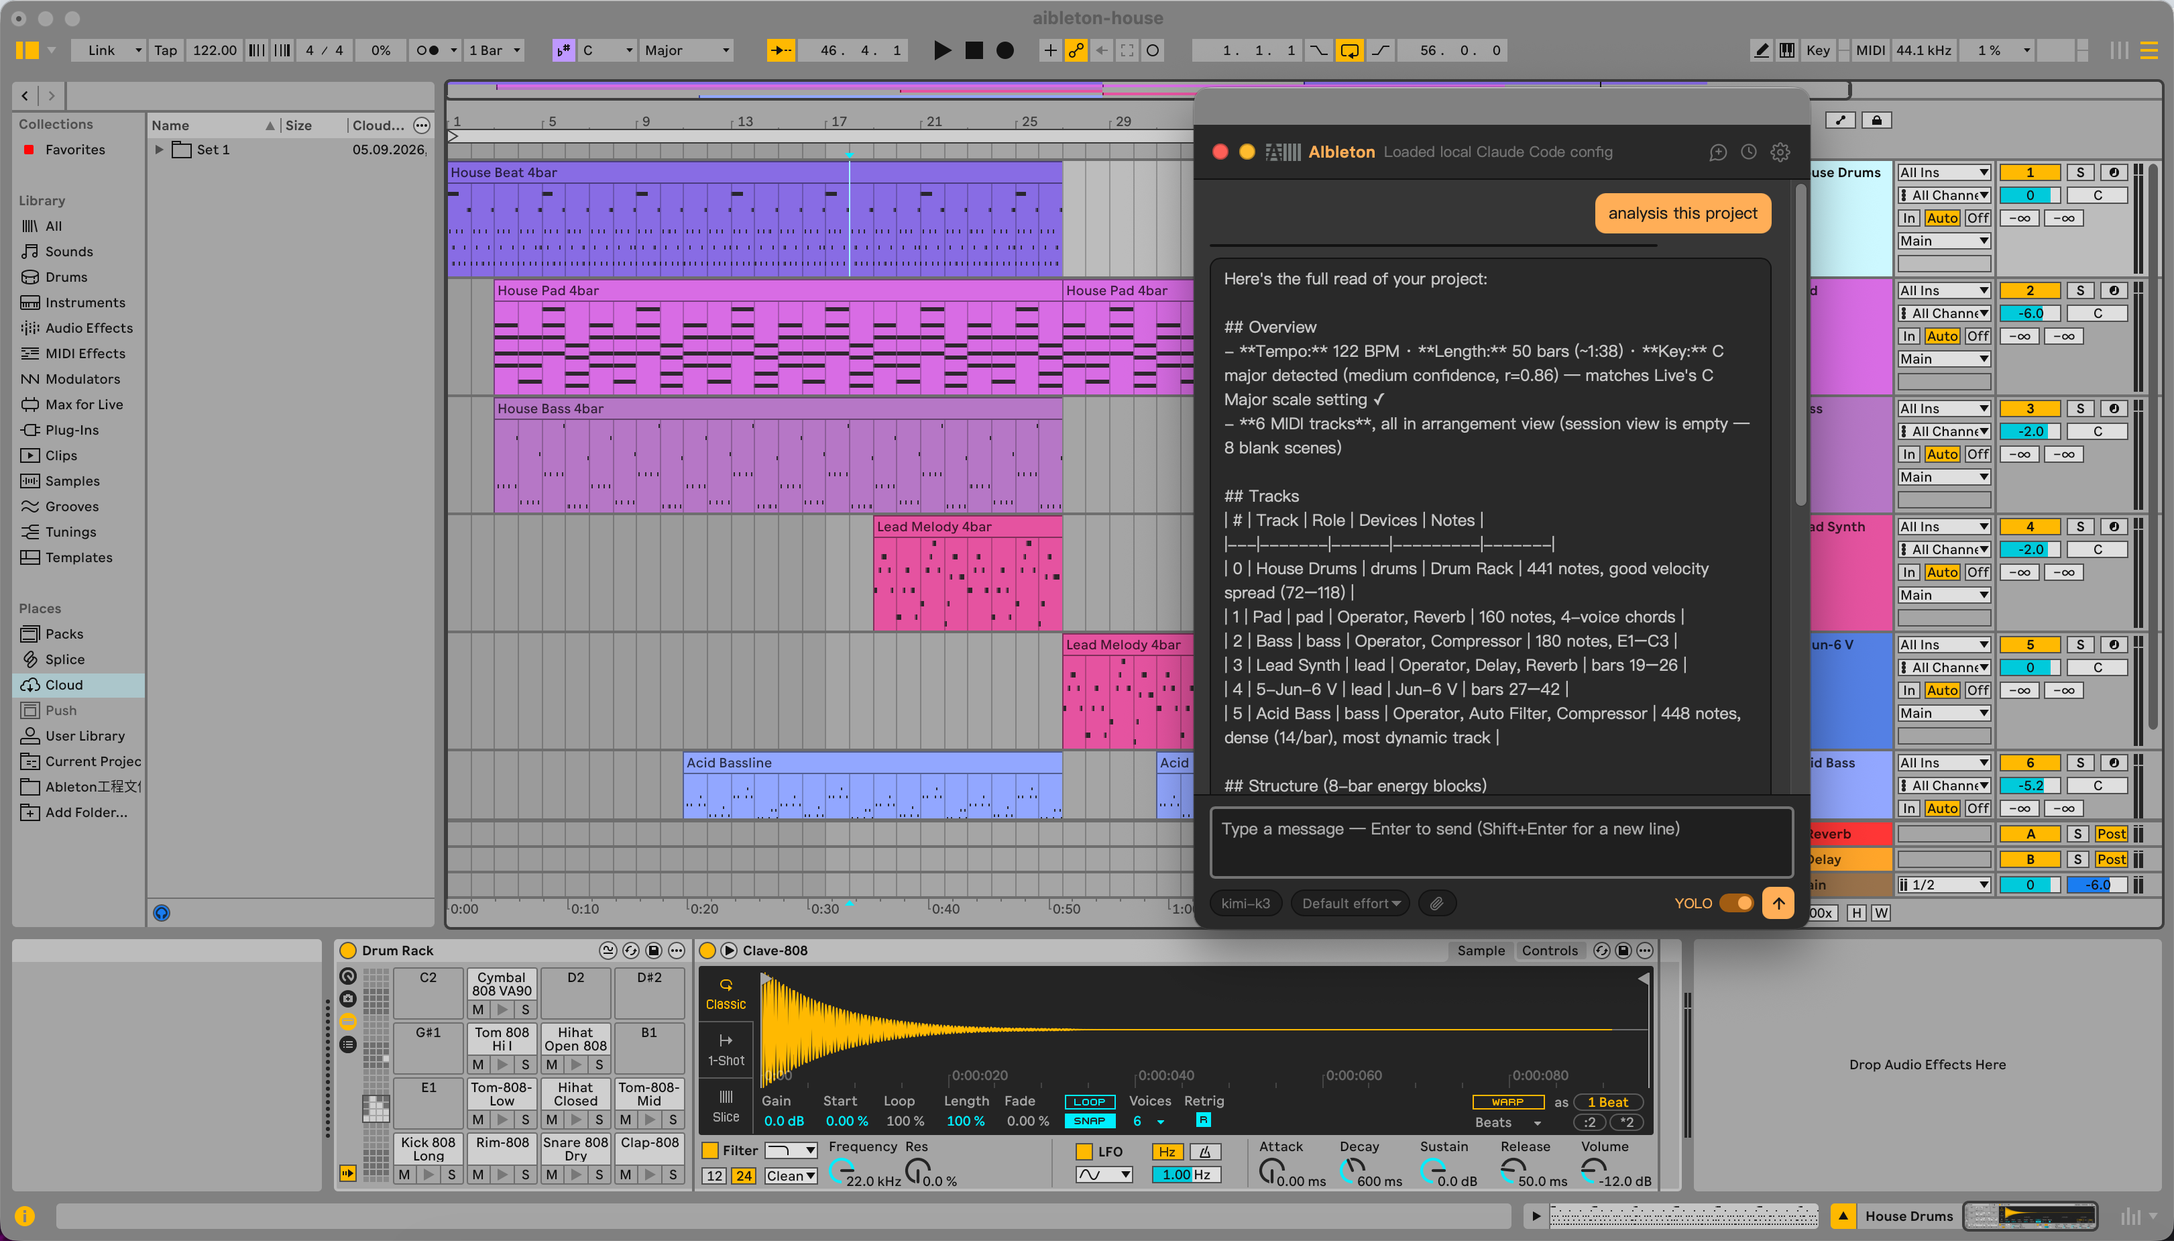
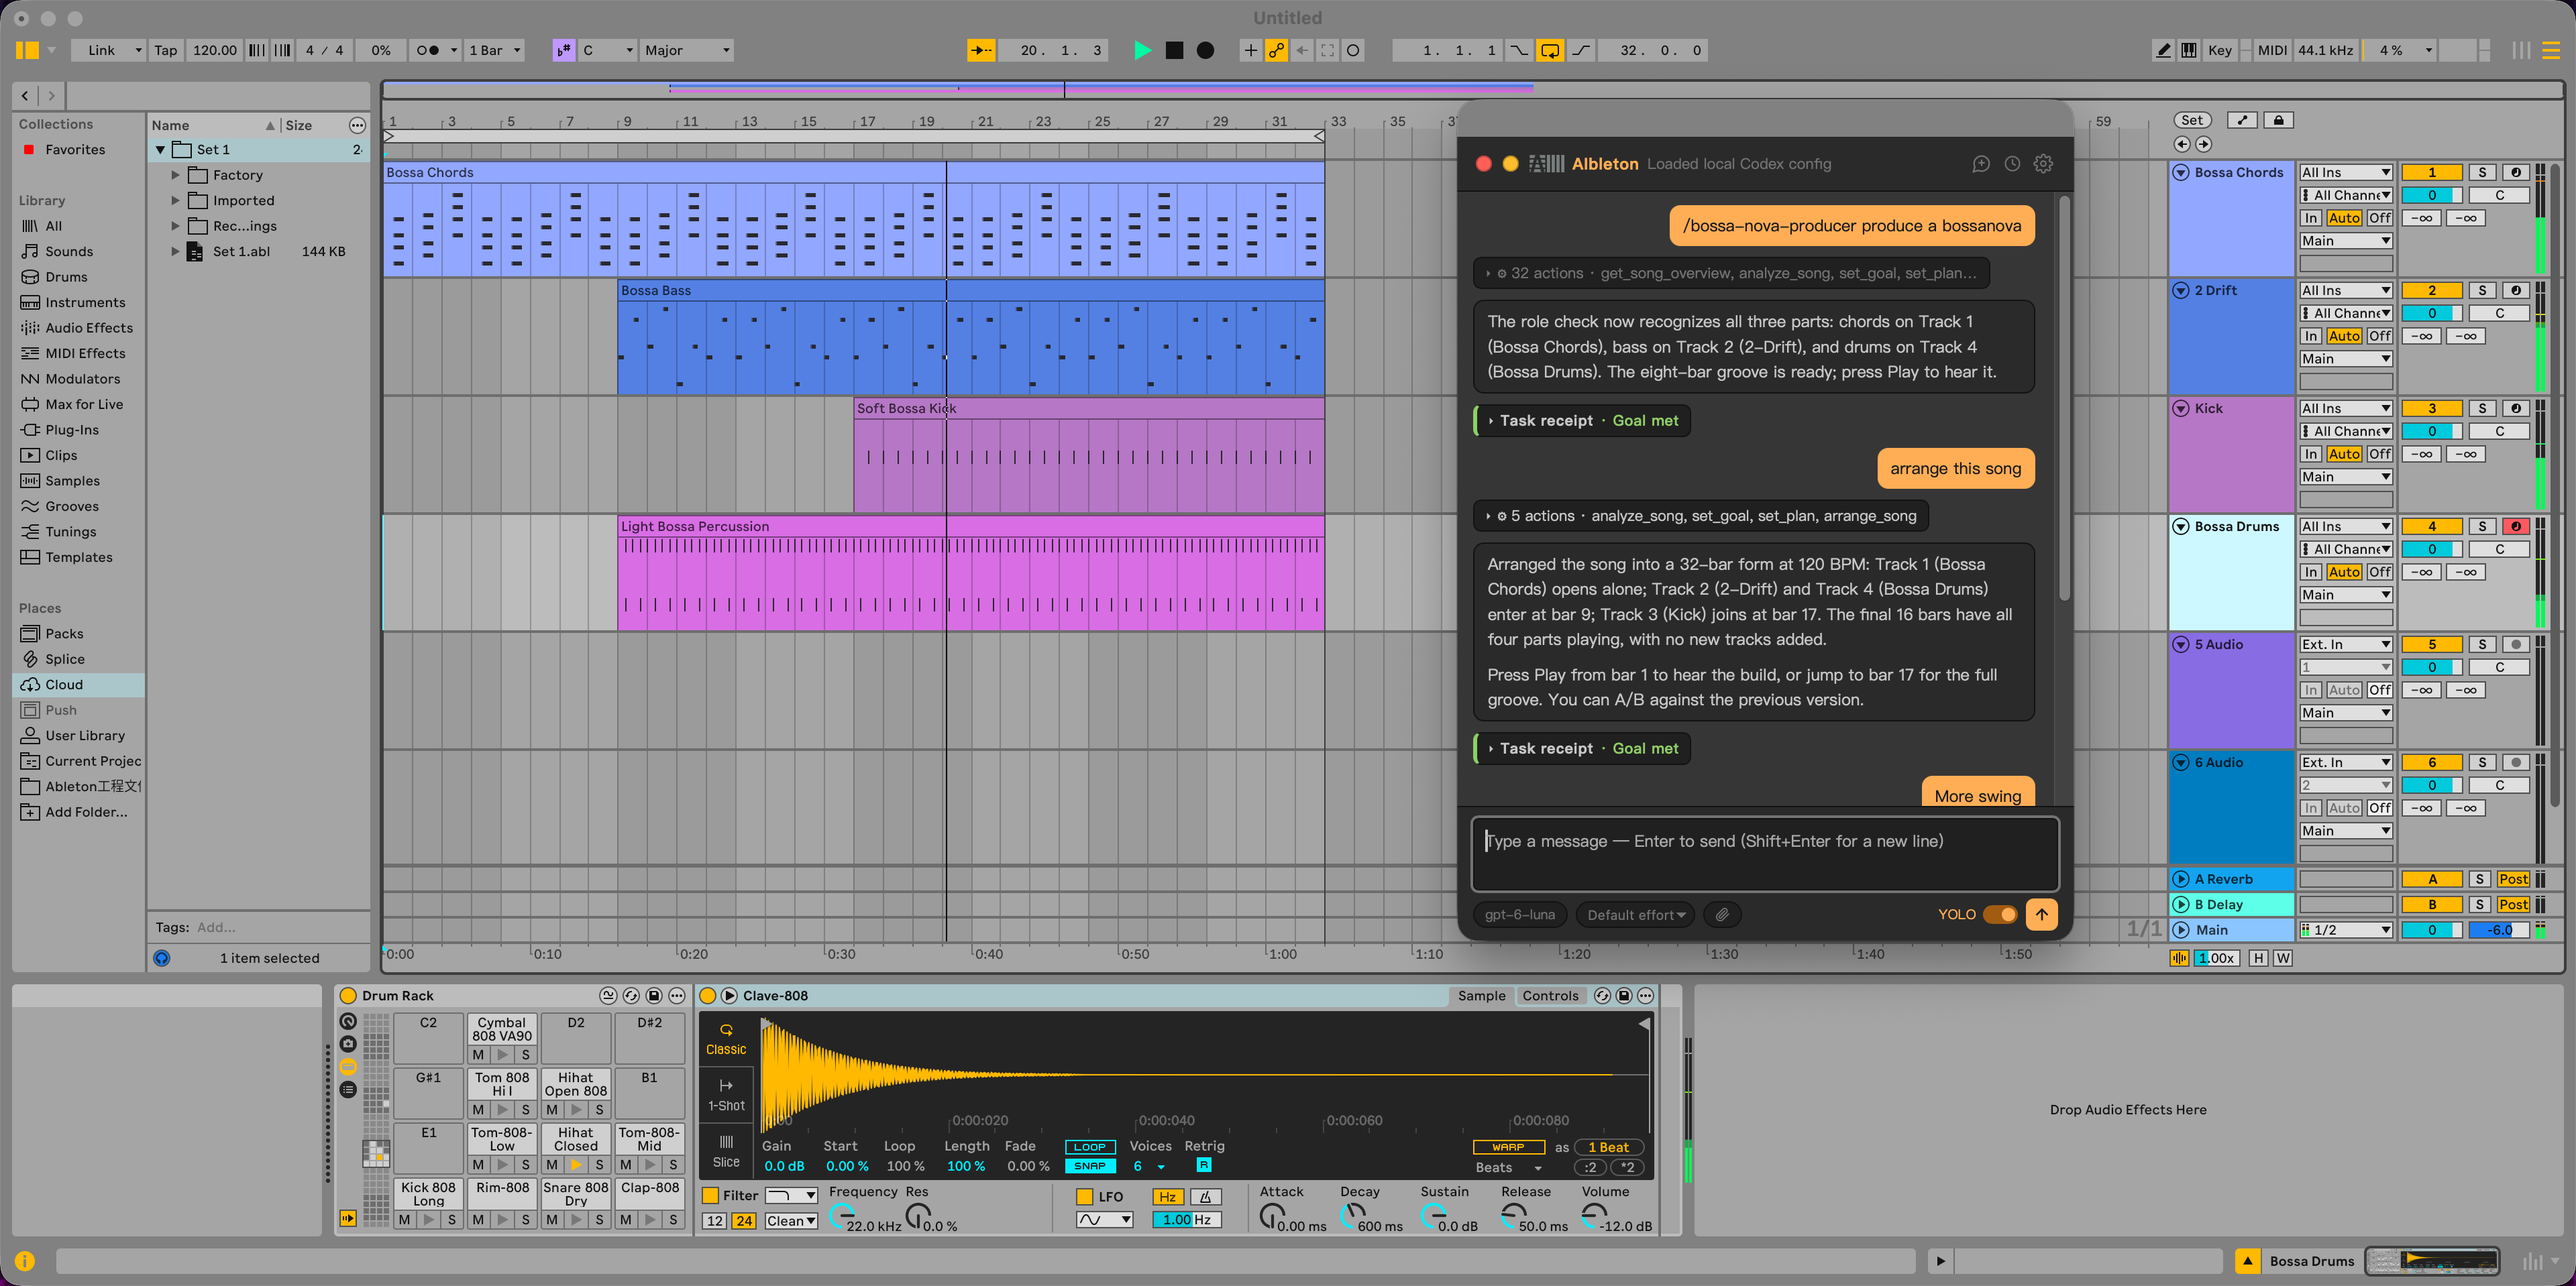
docs: refresh README and Move screenshots

diff --git a/README.md b/README.md
@@ -65,13 +65,9 @@ The agent can inspect your Live Set, understand musical context, reason about yo
 
 ## Screenshots
 
-| AI agent dialog inside Live | AIbletonBar floating sidebar |
+| Inside Live | AIbletonBar sidebar |
 |:---:|:---:|
-| ![AIbleton chat dialog inside Ableton Live](docs/screenshots/aibleton-dialog.png) | ![AIbletonBar sidebar docked next to Ableton Live](docs/screenshots/aibletonbar-sidebar.png) |
-
-| AI finds samples and pushes them to Move over Wi-Fi | Samples on the device |
-|:---:|:---:|
-| ![AIbleton uploading samples to Ableton Move](docs/screenshots/move-upload-samples.png) | ![Samples on Ableton Move](docs/screenshots/move-samples-webui.png) |
+| <img src="docs/screenshots/aibleton-dialog.png" alt="AIbleton chat dialog inside Ableton Live" width="450"> | <img src="docs/screenshots/aibletonbar-sidebar-desktop.png" alt="AIbletonBar sidebar docked next to Ableton Live" width="450"> |
 
 ## Core Capabilities
 

diff --git a/docs/ableton-move.zh-CN.md b/docs/ableton-move.zh-CN.md
@@ -96,6 +96,15 @@ AI:  [generate_audio] → [move_upload_sample] → kick.wav 已在 Move 的
      Samples 文件夹，装上鼓垫就能用
 ```
 
+### 上传示例
+
+AIbleton 可以从 Live 的采样库中找到 Sample，并通过 WiFi 上传到 Move。下图展示了
+AIbleton 中的上传过程，以及文件出现在 Move 上的结果。
+
+| 从 AIbleton 上传 | Move 上的 Samples |
+|:---:|:---:|
+| ![AIbleton 通过 WiFi 查找并上传 Samples 到 Move](screenshots/move-upload-samples.png) | ![已上传到 Ableton Move 的 Samples](screenshots/move-samples-webui.png) |
+
 说明：
 
 - Move 和电脑必须在**同一 WiFi**；主机名默认 `move.local`（改过名的话在

diff --git a/docs/ableton-move.md b/docs/ableton-move.md
@@ -104,6 +104,15 @@ AI:   [generate_audio] → [move_upload_sample] → kick.wav is in Move's Sample
       folder and can be loaded onto a drum pad.
 ```
 
+### Sample upload example
+
+AIbleton can find a sample in Live's library and upload it to Move over WiFi. The
+screenshots show the upload in AIbleton and the resulting files on Move.
+
+| Upload from AIbleton | Samples on Move |
+|:---:|:---:|
+| ![AIbleton finding and uploading samples to Move over WiFi](screenshots/move-upload-samples.png) | ![Samples uploaded to Ableton Move](screenshots/move-samples-webui.png) |
+
 Notes:
 
 - Move and computer must be on the **same WiFi**; the host defaults to
